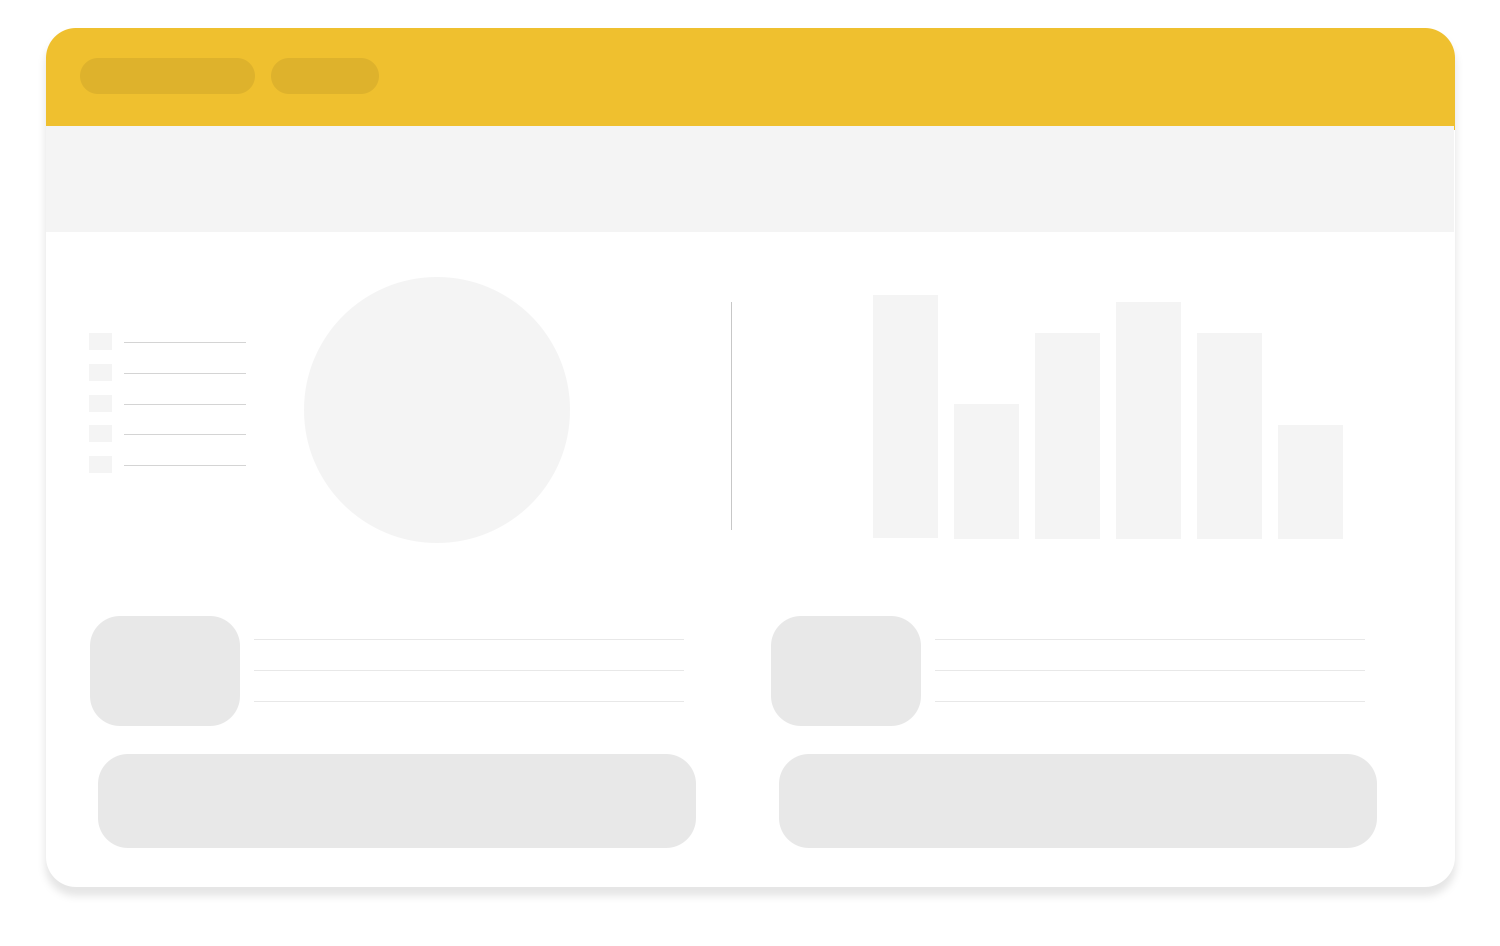
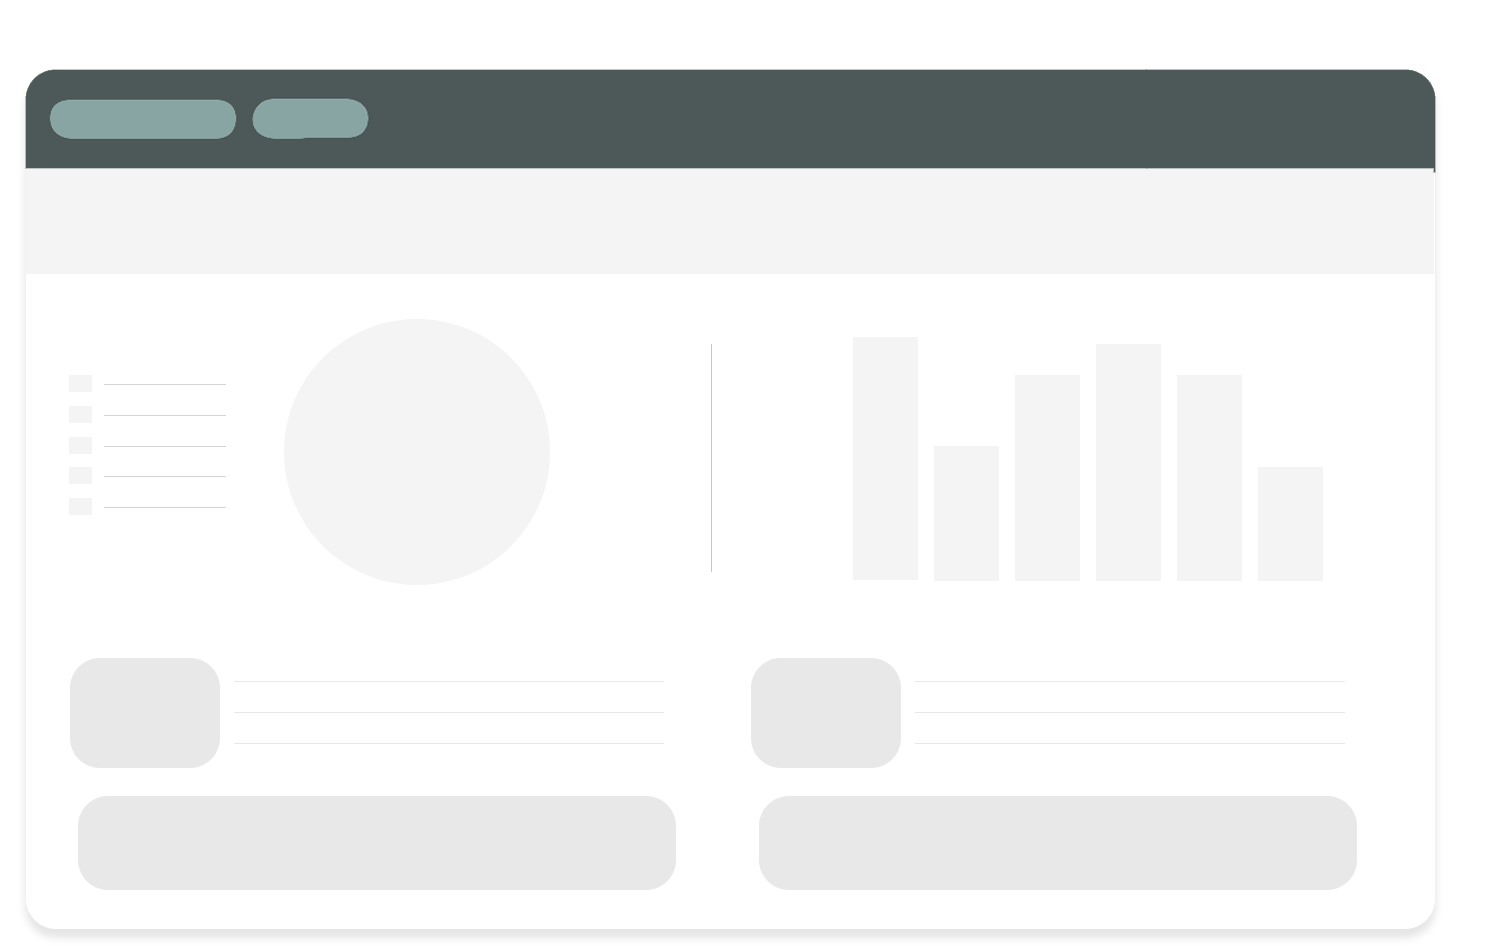
teste responsive

diff --git a/src/css/style.css b/src/css/style.css
@@ -6,6 +6,7 @@
 }
 main {
     height: 100vh;
+    background-color: #D9D9D9;
 }
 
 /* header */
@@ -13,14 +14,17 @@ main {
 header {
     background-attachment: fixed;
 }
+
 header nav {
     background: #4C5958;
 }
+
 header ul li a {
     color: #8AA6A3;
     font-size: 1.1rem;
     font-weight: 500;
 }
+
 header ul li a:hover {
     color: #127369;
 }
@@ -51,18 +55,45 @@ header ul li a:hover {
     font-size: 1.1rem;
     transition: background 1.3s, color 1s ;
 }
+
 #box_content form button:hover {
     background: #127369;
     color: #0c2e2b;
 }
+
 #box_content form input:focus {
     border-color: #10403B;
 }
 
+/* contents */
 
+.custom-box {
+    padding: 50px 0;
+    border-bottom: 1px solid rgba(162, 162, 162, 0.3);
+}
+
+.box-style-content {
+    display: flex;
+    gap: 40px; 
+}
+
+.box-style {
+    align-self: center;
+}
+
+div.box-style a {
+    background: #10403B;
+    color: #fff;
+    font-size: 1.1rem;
+    transition: background 1.3s, color 1s;
+}
+
+div.box-style a:hover {
+    background: #127369;
+    color: #0c2e2b;
+}
 
 @media screen and (max-width: 1080px) {
-
     section#box_home {
         padding: 30px 0;
     }
@@ -75,6 +106,18 @@ header ul li a:hover {
     #box_image_home {
         display: none;
     }
+    .box-style-content {
+        flex-wrap: wrap;
+    }
+
+    .box-style h2 {
+        text-align: center;
+    }
+
+}
+
+@media screen and (max-width: 700px) {
+    
 }
 
 @media screen and (max-width: 525px) {
@@ -88,6 +131,7 @@ header ul li a:hover {
         font-size: 2.5rem;
     }
 }
+
 @media screen and (max-width: 365px) {
     div#box_content h1 {
         font-size: 2rem;

diff --git a/index.html b/index.html
@@ -84,8 +84,24 @@
                 </div>
             </div>
         </section>
-        <section id="box_">
-
+        <section class="custom-box">
+            <div class="container box-style-content">
+                <div class="box-style">
+                    <h2>
+                        Saiva para onde vai seu dinheiro
+                    </h2>
+                    <p>
+                        Com o Finans, você categoriza todos os seus lançamentos. Com gráficos simples, você sabe de onde vem e para onde vai o seu dinheiro.
+                    </p>
+                    <a href="#" class="btn">veja mais</a>
+                </div>
+                <div class="box-image-content">
+                    <img src="src/image/saiba.png" alt="Saiba" width="100%">
+                </div>
+            </div>
+        </section>
+        <section class="custom-box">
+            <div class="container"></div>
         </section>
     </main>
 
